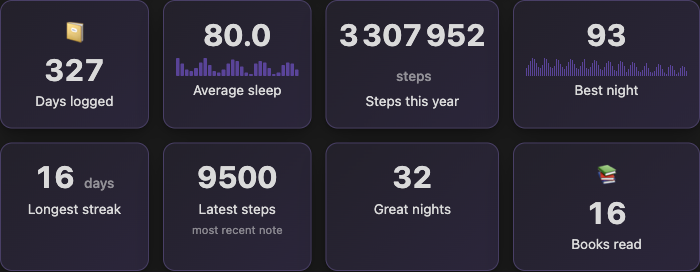
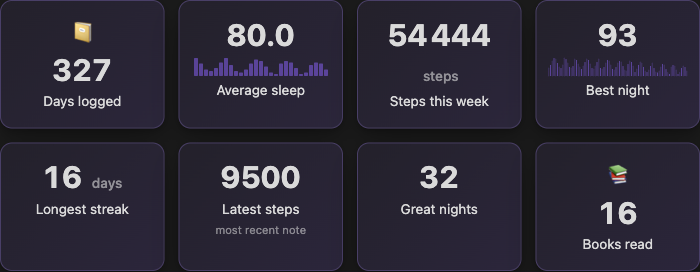
docs(screens): recapture with the habit tracker, and a picture of it
The README described checkboxes, windows and compare with nothing to
look at. Capture now takes one more picture, the gym cards over the
current year of the gym heatmap, and the README shows it under the
habit tracker paragraph. The older year is left out of that shot: the
demo diary covers twelve months, so its grid is mostly weeks before it
began.

The demo's current week picks up Tuesday and Thursday, so "this week"
beats the same days of last week on any run date after Monday and the
card shows the delta as it is meant to look. "Gym this month" loses
compare: August holds the push fortnight, and a red fall against it is
not what the picture is for.

"Steps this year" summed the whole diary, not the year, and at seven
digits it no longer fit a card: overflow-wrap broke it inside the
number. It is "Steps this week" with period: week now, which is both
true and short. The layout itself still breaks a long number, which
is its own item.

Every other screen is recaptured from the same demo vault.

Backlog: B-087

diff --git a/e2e/capture.spec.ts b/e2e/capture.spec.ts
@@ -96,6 +96,28 @@ for (const theme of ["obsidian", "moonstone"] as const) {
             await block.scrollIntoViewIfNeeded();
             await block.screenshot({ path: path.join(SHOTS, `${name}-${suffix}.png`) });
         }
+
+        // The habit tracker is two blocks read as one picture: the gym cards
+        // and the current year of the gym heatmap under them. Both are the
+        // last of their kind on the demo dashboard, so the shot is the union
+        // of their boxes. The older year is left out: the demo diary covers
+        // twelve months, so that grid is mostly empty weeks before it began.
+        const cards = view.locator(".block-language-stats").last();
+        const grid = view.locator(".block-language-heatmap").last().locator(".dashy-hm-wrap").first();
+        // Obsidian scrolls the note, not the page: bring the cards to the top
+        // so both blocks fit in the window the clip is taken from.
+        await cards.evaluate((el) => el.scrollIntoView({ block: "start" }));
+        await win.waitForTimeout(300);
+        const top = await cards.boundingBox();
+        const bottom = await grid.boundingBox();
+        if (!top || !bottom) throw new Error("habit blocks are not on screen");
+        const clip = {
+            x: Math.min(top.x, bottom.x),
+            y: top.y,
+            width: Math.max(top.x + top.width, bottom.x + bottom.width) - Math.min(top.x, bottom.x),
+            height: bottom.y + bottom.height - top.y,
+        };
+        await win.screenshot({ path: path.join(SHOTS, `habits-${suffix}.png`), clip });
     });
 }
 

diff --git a/README.md b/README.md
@@ -103,7 +103,7 @@ columns: 4
 items:
   - { label: Days logged, source: Diary, agg: count, icon: 📔 }
   - { label: Average sleep, source: Diary, field: sleep_score, agg: avg, precision: 1, trend: 30d }
-  - { label: Steps this year, source: Diary, field: steps, agg: sum, unit: steps }
+  - { label: Steps this week, source: Diary, field: steps, agg: sum, unit: steps, period: week }
   - { label: Longest streak, source: Diary, field: sleep_score, agg: streak, unit: days }
 ```
 ````
@@ -232,6 +232,12 @@ items:
 five sessions since Monday (or Sunday, wherever your week starts) reads as `5`, not the
 whole year's total, and `compare: true` adds how that stacks up against the same days last
 week, green when it is more.
+
+<picture>
+  <source media="(prefers-color-scheme: dark)" srcset="docs/screens/habits-dark.png">
+  <img alt="A gym habit tracker: cards for days, longest streak, this week against last week and this month, over a year of ticked days"
+       src="docs/screens/habits-light.png">
+</picture>
 
 ## It keeps up with the vault
 
